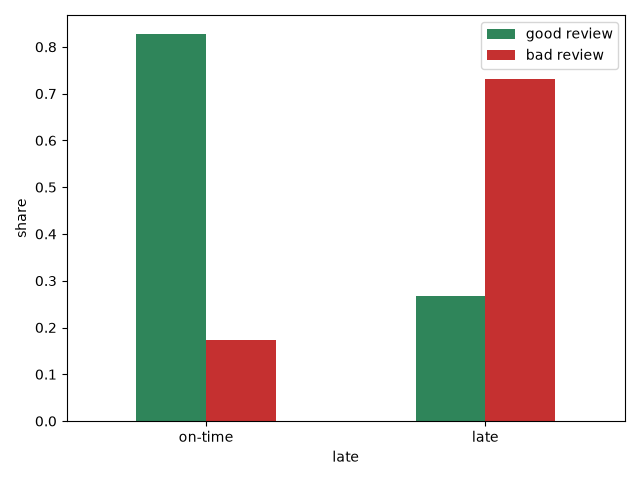
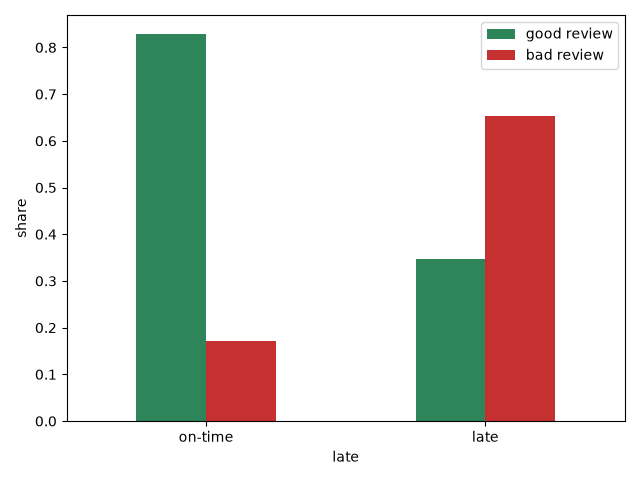
feat(db): load Olist raw tables into MSSQL, both datasets one DB

diff --git a/warehouse/seed/load_olist_mssql.py b/warehouse/seed/load_olist_mssql.py
@@ -1,0 +1,95 @@
+"""Load Olist raw CSVs into CourierAnalytic.raw_olist_* (both datasets, one DB).
+
+Usage:
+    python load_olist_mssql.py [--server localhost] [--db CourierAnalytic]
+
+Source resolves via kagglehub cache (downloads on first run).
+Vectorized conversion + per-table commits. Strips non-BMP chars from
+review text (UCS-2 NVARCHAR limit).
+"""
+import argparse
+import kagglehub
+import math
+import pandas as pd
+import pyodbc
+from pathlib import Path
+
+TABLES = {
+    "raw_olist_orders": (["order_id", "customer_id", "order_status",
+                          "order_purchase_timestamp", "order_approved_at",
+                          "order_delivered_carrier_date", "order_delivered_customer_date",
+                          "order_estimated_delivery_date"], "olist_orders_dataset.csv"),
+    "raw_olist_items": (["order_id", "order_item_id", "product_id", "seller_id",
+                         "shipping_limit_date", "price", "freight_value"],
+                        "olist_order_items_dataset.csv"),
+    "raw_olist_payments": (["order_id", "payment_sequential", "payment_type",
+                            "payment_installments", "payment_value"],
+                           "olist_order_payments_dataset.csv"),
+    "raw_olist_reviews": (["review_id", "order_id", "review_score",
+                           "review_comment_title", "review_comment_message",
+                           "review_creation_date", "review_answer_timestamp"],
+                          "olist_order_reviews_dataset.csv"),
+}
+DATE_HINTS = ("timestamp", "approved_at", "carrier_date", "customer_date",
+              "estimated_delivery_date", "shipping_limit_date",
+              "creation_date", "answer_timestamp")
+INT_COLS = {"order_item_id", "payment_sequential", "payment_installments", "review_score"}
+FLOAT_COLS = {"price", "freight_value", "payment_value"}
+
+
+def prep(df, cols):
+    df = df[cols]
+    for c in cols:
+        if any(k in c for k in DATE_HINTS):
+            s = pd.to_datetime(df[c], errors="coerce")
+            df[c] = s.apply(lambda v: None if pd.isna(v) else v.strftime("%Y-%m-%d %H:%M:%S"))
+        elif c in INT_COLS:
+            df[c] = pd.to_numeric(df[c], errors="coerce").apply(
+                lambda v: None if pd.isna(v) else int(v))
+        elif c in FLOAT_COLS:
+            df[c] = pd.to_numeric(df[c], errors="coerce").apply(
+                lambda v: None if pd.isna(v) else float(v))
+        else:
+            df[c] = df[c].apply(
+                lambda v: None if pd.isna(v) or str(v).strip() == ""
+                else "".join(ch for ch in str(v) if ord(ch) <= 0xFFFF) or None)
+    return df
+
+
+def main():
+    ap = argparse.ArgumentParser()
+    ap.add_argument("--server", default="localhost")
+    ap.add_argument("--db", default="CourierAnalytic")
+    args = ap.parse_args()
+
+    src = Path(kagglehub.dataset_download("olistbr/brazilian-ecommerce"))
+    conn = pyodbc.connect(
+        f"DRIVER={{ODBC Driver 18 for SQL Server}};SERVER={args.server};"
+        f"DATABASE={args.db};Trusted_Connection=yes;TrustServerCertificate=yes;",
+        autocommit=True)
+    cur = conn.cursor()
+    cur.fast_executemany = True
+
+    for table, (cols, fname) in TABLES.items():
+        df = prep(pd.read_csv(src / fname, dtype=str, keep_default_na=True), cols)
+        if table == "raw_olist_reviews":
+            # review_id repeats for edited reviews — keep latest (same rule as 06 validation)
+            df = df.sort_values("review_creation_date").drop_duplicates("review_id", keep="last")
+        cur.execute(f"DELETE FROM dbo.{table}")
+        rows = [tuple(None if (v is None or v is pd.NA
+                               or (isinstance(v, float) and math.isnan(v)))
+                       else v for v in r)
+                for r in df.itertuples(index=False, name=None)]
+        for i in range(0, len(rows), 20000):
+            cur.executemany(
+                f"INSERT INTO dbo.{table} ({','.join(cols)}) VALUES ({','.join('?' for _ in cols)})",
+                rows[i:i + 20000])
+            print(f"{table}: {min(i + 20000, len(rows))}/{len(rows)}", flush=True)
+    for t in TABLES:
+        cur.execute(f"SELECT COUNT(*) FROM dbo.{t}")
+        print(f"{t}: {cur.fetchone()[0]} rows")
+    conn.close()
+
+
+if __name__ == "__main__":
+    main()

diff --git a/python/scripts/06_olist_validation.py b/python/scripts/06_olist_validation.py
@@ -34,8 +34,8 @@ print(f"orders={len(orders)} delivered={(orders.order_status=='delivered').sum()
 
 # --- Rule port 1: late delivery (ETA_SLA_BREACH analogue) ---
 dlv = orders[orders.order_status == "delivered"].copy()
-dlv["late_days"] = (dlv.order_delivered_customer_date - dlv.order_estimated_delivery_date).dt.days
-dlv["late"] = dlv.late_days > 0
+dlv["late_days"] = (dlv.order_delivered_customer_date - dlv.order_estimated_delivery_date).dt.total_seconds() / 86400
+dlv["late"] = dlv.order_delivered_customer_date > dlv.order_estimated_delivery_date
 late_rate = dlv.late.mean()
 print(f"late deliveries: {dlv.late.sum()} / {len(dlv)} = {late_rate:.1%}, avg late {dlv[dlv.late].late_days.mean():.1f} days")
 

diff --git a/python/README.md b/python/README.md
@@ -24,9 +24,12 @@ Charts: `docs/img/eda_*` + `forecast.png`. These feed L4 dashboard + PowerBI.
 
 ## Real-data validation — Olist (99,441 Brazilian e-commerce orders)
 `scripts/06_olist_validation.py` ports the engine onto Kaggle's `olistbr/brazilian-ecommerce`:
-- Late delivery (ETA-breach analogue): **6.8%**, avg **10.6 days** late.
+- Late delivery (ETA-breach analogue): **8.1%**, avg **9.6 days** late.
 - Payment-vs-bill mismatches (settlement analogue): 249 orders (0.25%).
 - Freight outliers (excess-charge analogue): 983 orders where freight > 146% of price.
-- **Late → 73.2% bad reviews vs 17.3% on-time** (χ²=11197, p≈0) — delivery SLA directly moves CSAT.
+- **Late → 65.3% bad reviews vs 17.2% on-time** (χ²=9833, p≈0) — delivery SLA directly moves CSAT.
 - 462 sellers scored, worst at 32.1% late (scorecard analogue).
 - See `outputs/olist_validation.json` + `docs/img/olist_late_vs_reviews.png`.
+- Raw tables also loaded in MSSQL: `raw_olist_orders/items/payments/reviews`
+  (`warehouse/ddl/mssql/raw_olist.sql` + `warehouse/seed/load_olist_mssql.py`) —
+  both datasets query side-by-side in `CourierAnalytic`.
